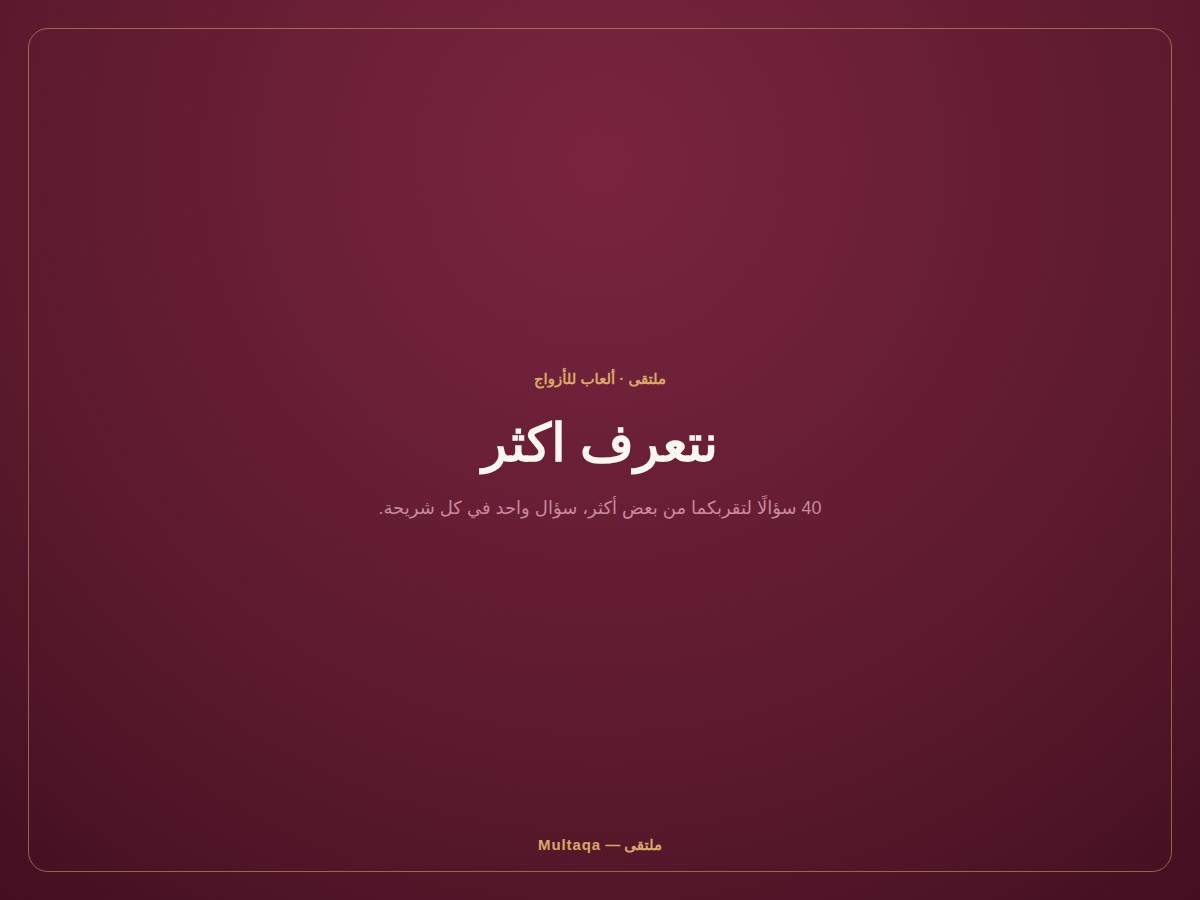
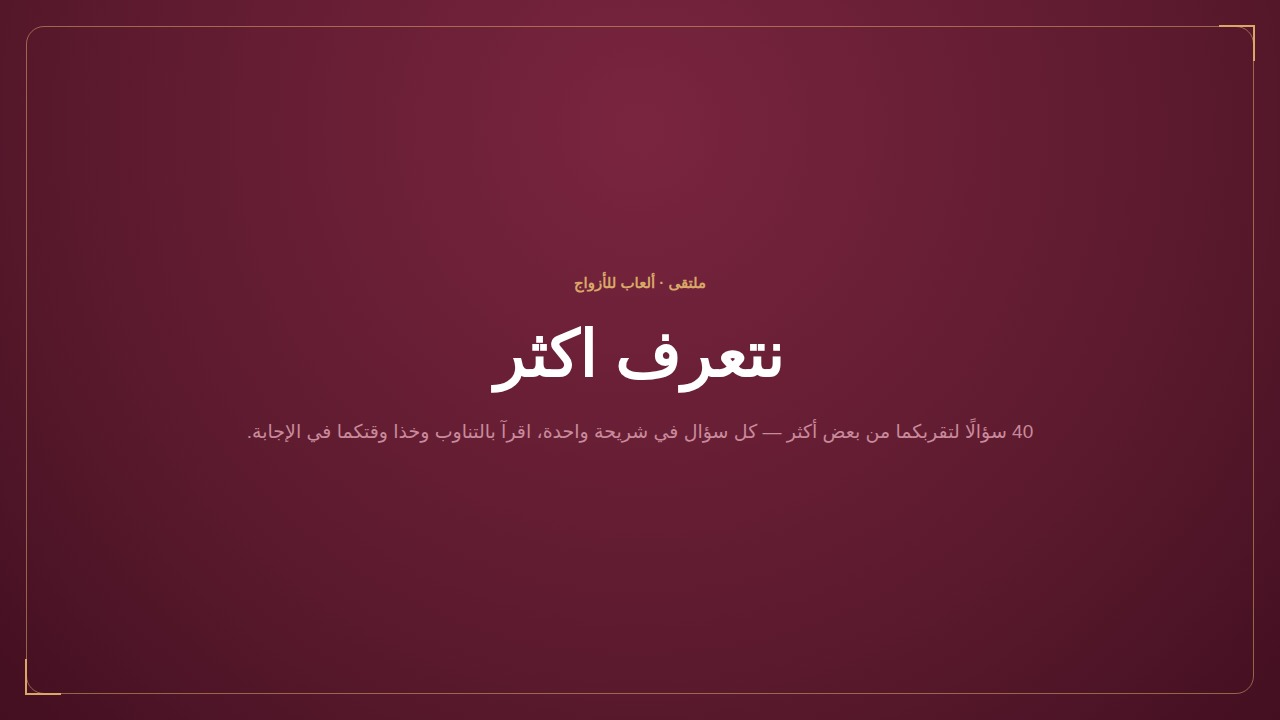
Cover images: use literal screenshots of each file's own first page
Replaces the separately-designed thumbnail covers with direct
screenshots of each product's actual first page/slide (the same
markup rendered inside the real PDF) — the site now shows the file's
own cover, not a redesign. Card containers switched from object-cover
(crop) to object-contain on a dark background, since the portrait
(A4) and landscape (16:9 game) sources have different aspect ratios
and shouldn't be cropped.

Claude-Session: https://claude.ai/code/session_013uGpqfiN4mLmK4WGXXWpTP

diff --git a/src/components/ProductCard.tsx b/src/components/ProductCard.tsx
@@ -24,14 +24,14 @@ export function ProductCard({
       href={`/${locale}/product/${product.slug}`}
       className="group flex flex-col overflow-hidden rounded-2xl border border-line bg-white transition hover:-translate-y-0.5 hover:shadow-lg"
     >
-      <div className="relative aspect-[4/3] w-full overflow-hidden bg-gradient-to-br from-brass/25 to-ink/10">
+      <div className="relative aspect-[4/3] w-full overflow-hidden bg-ink">
         {cover && (
           <Image
             src={cover}
             alt={title}
             fill
             sizes="(min-width: 1024px) 33vw, (min-width: 640px) 50vw, 100vw"
-            className="object-cover"
+            className="object-contain"
           />
         )}
       </div>

diff --git a/src/app/[locale]/product/[slug]/page.tsx b/src/app/[locale]/product/[slug]/page.tsx
@@ -28,9 +28,9 @@ export default async function ProductPage({
 
   return (
     <div className="grid gap-10 lg:grid-cols-2">
-      <div className="relative aspect-[4/3] overflow-hidden rounded-3xl bg-gradient-to-br from-brass/25 to-ink/10">
+      <div className="relative aspect-[4/3] overflow-hidden rounded-3xl bg-ink">
         {cover && (
-          <Image src={cover} alt={title} fill sizes="(min-width: 1024px) 50vw, 100vw" className="object-cover" />
+          <Image src={cover} alt={title} fill sizes="(min-width: 1024px) 50vw, 100vw" className="object-contain" />
         )}
       </div>
 
